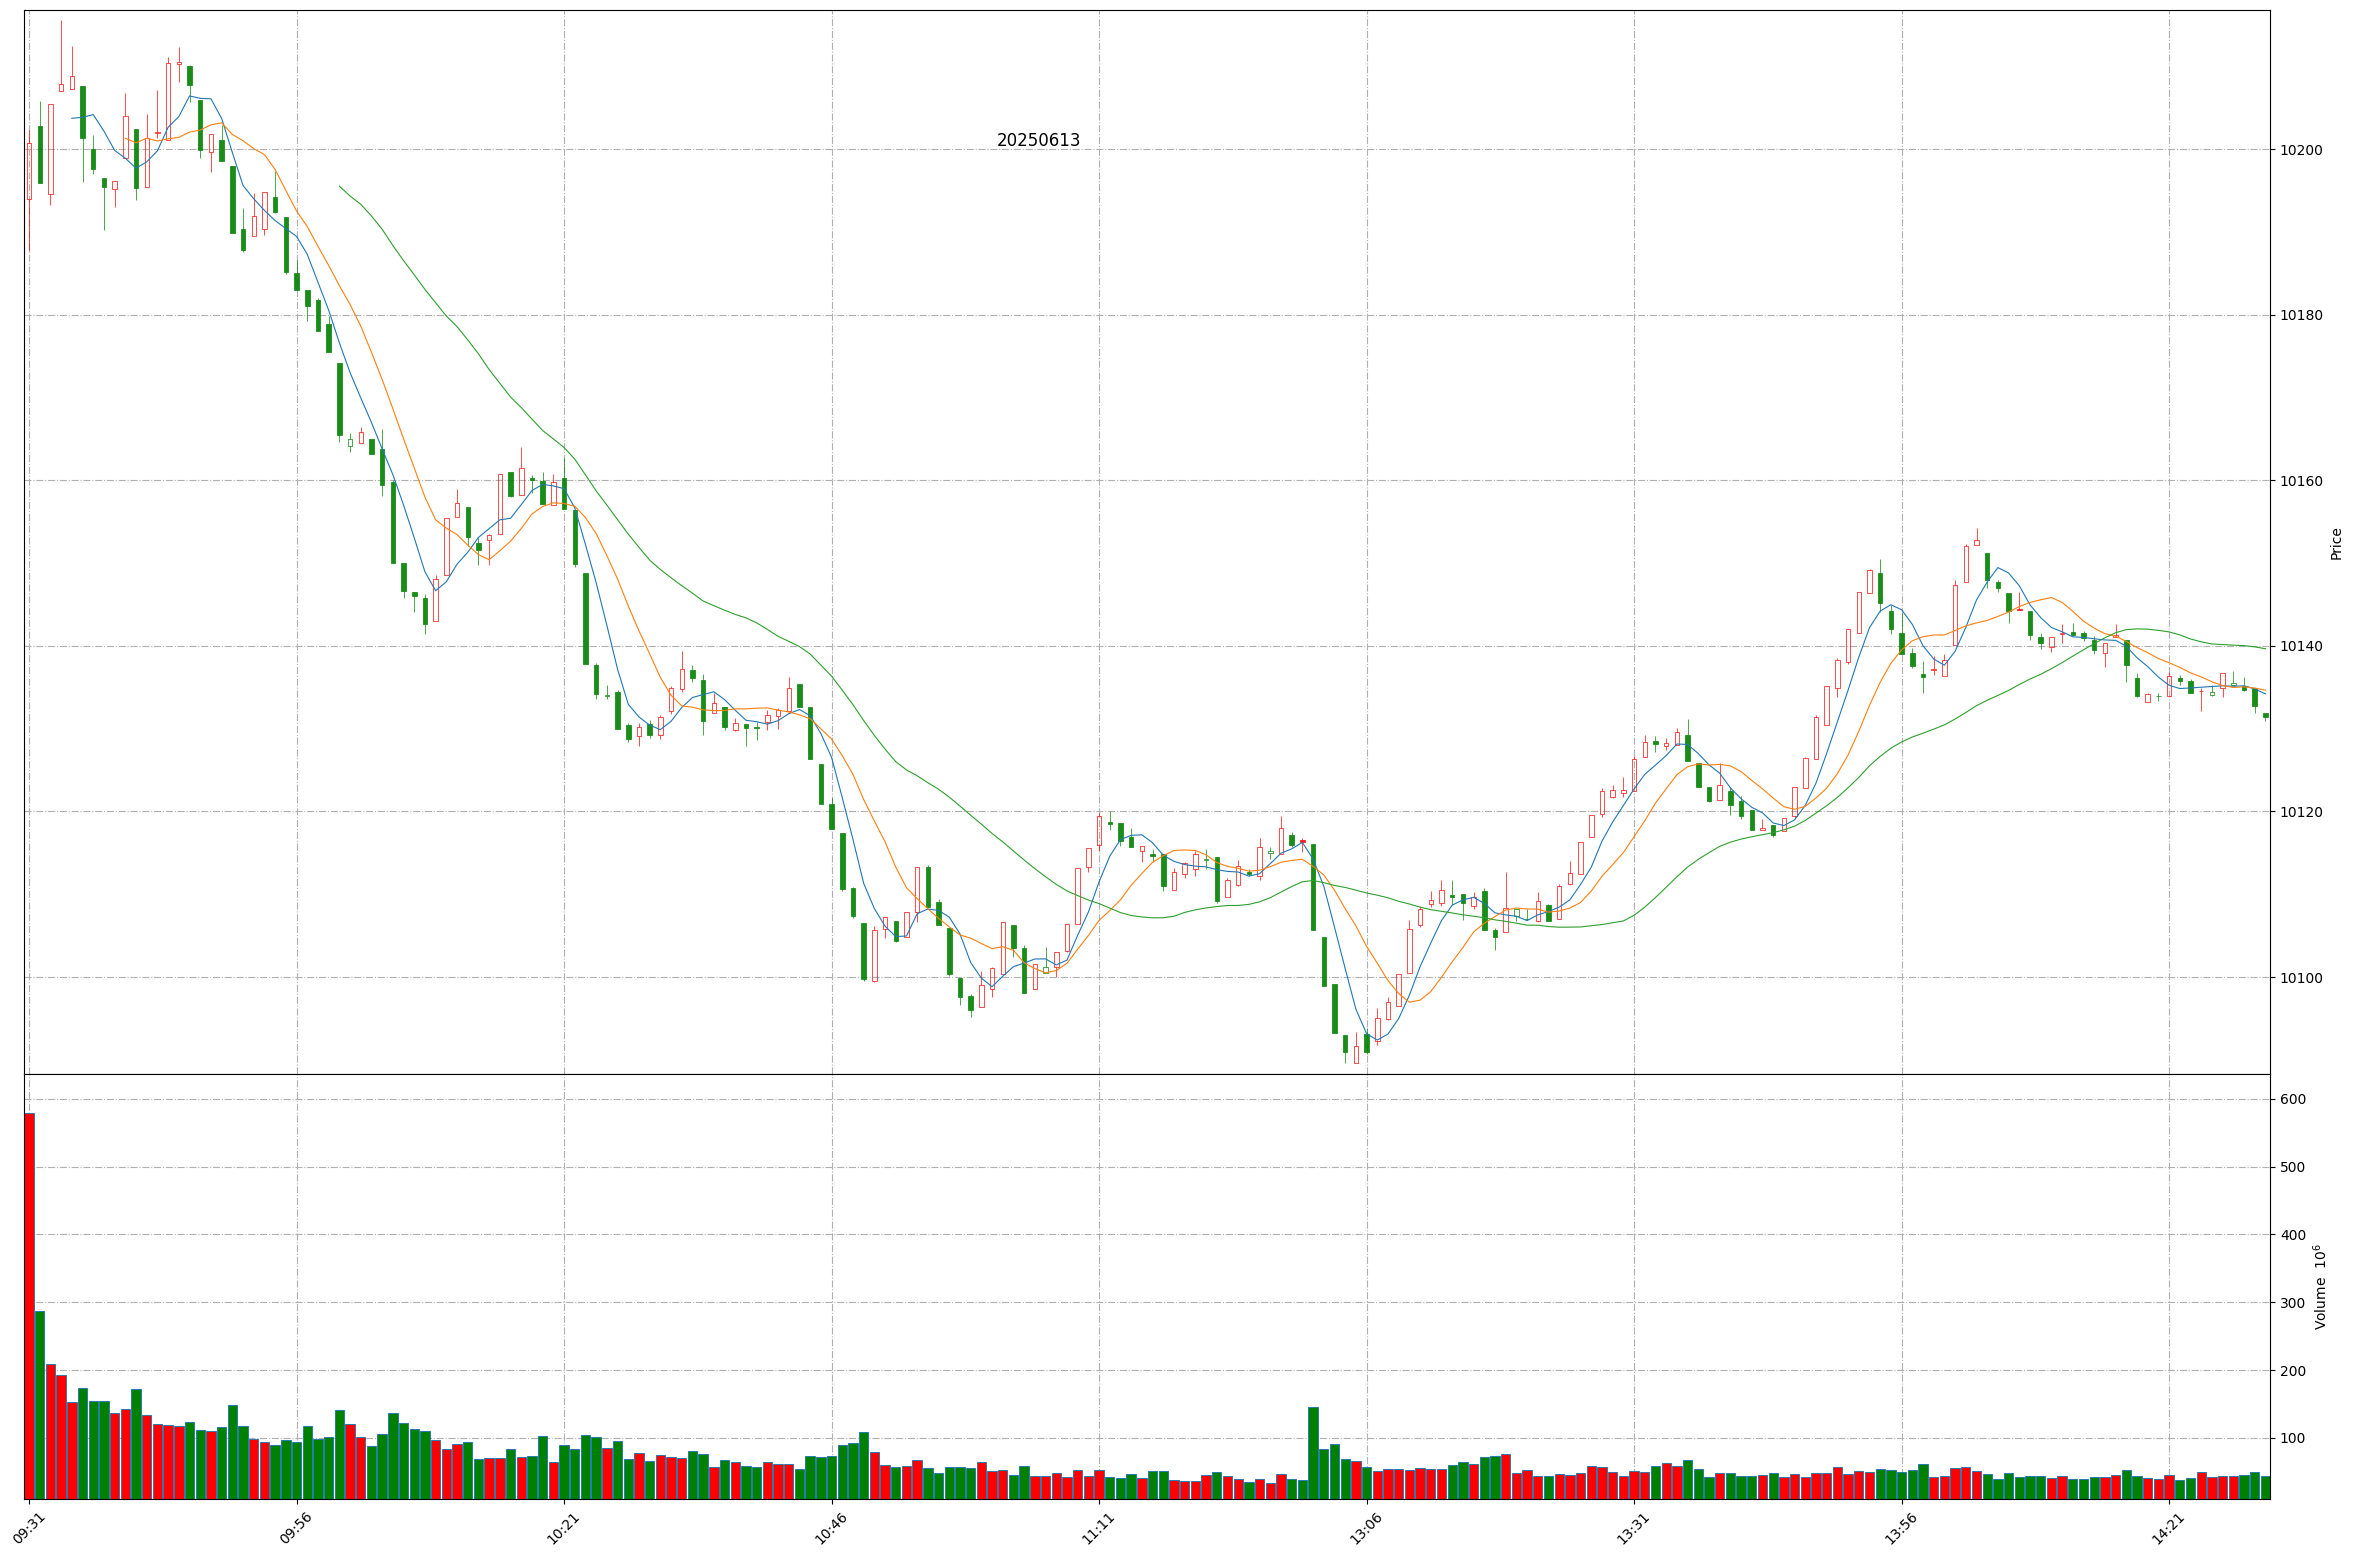
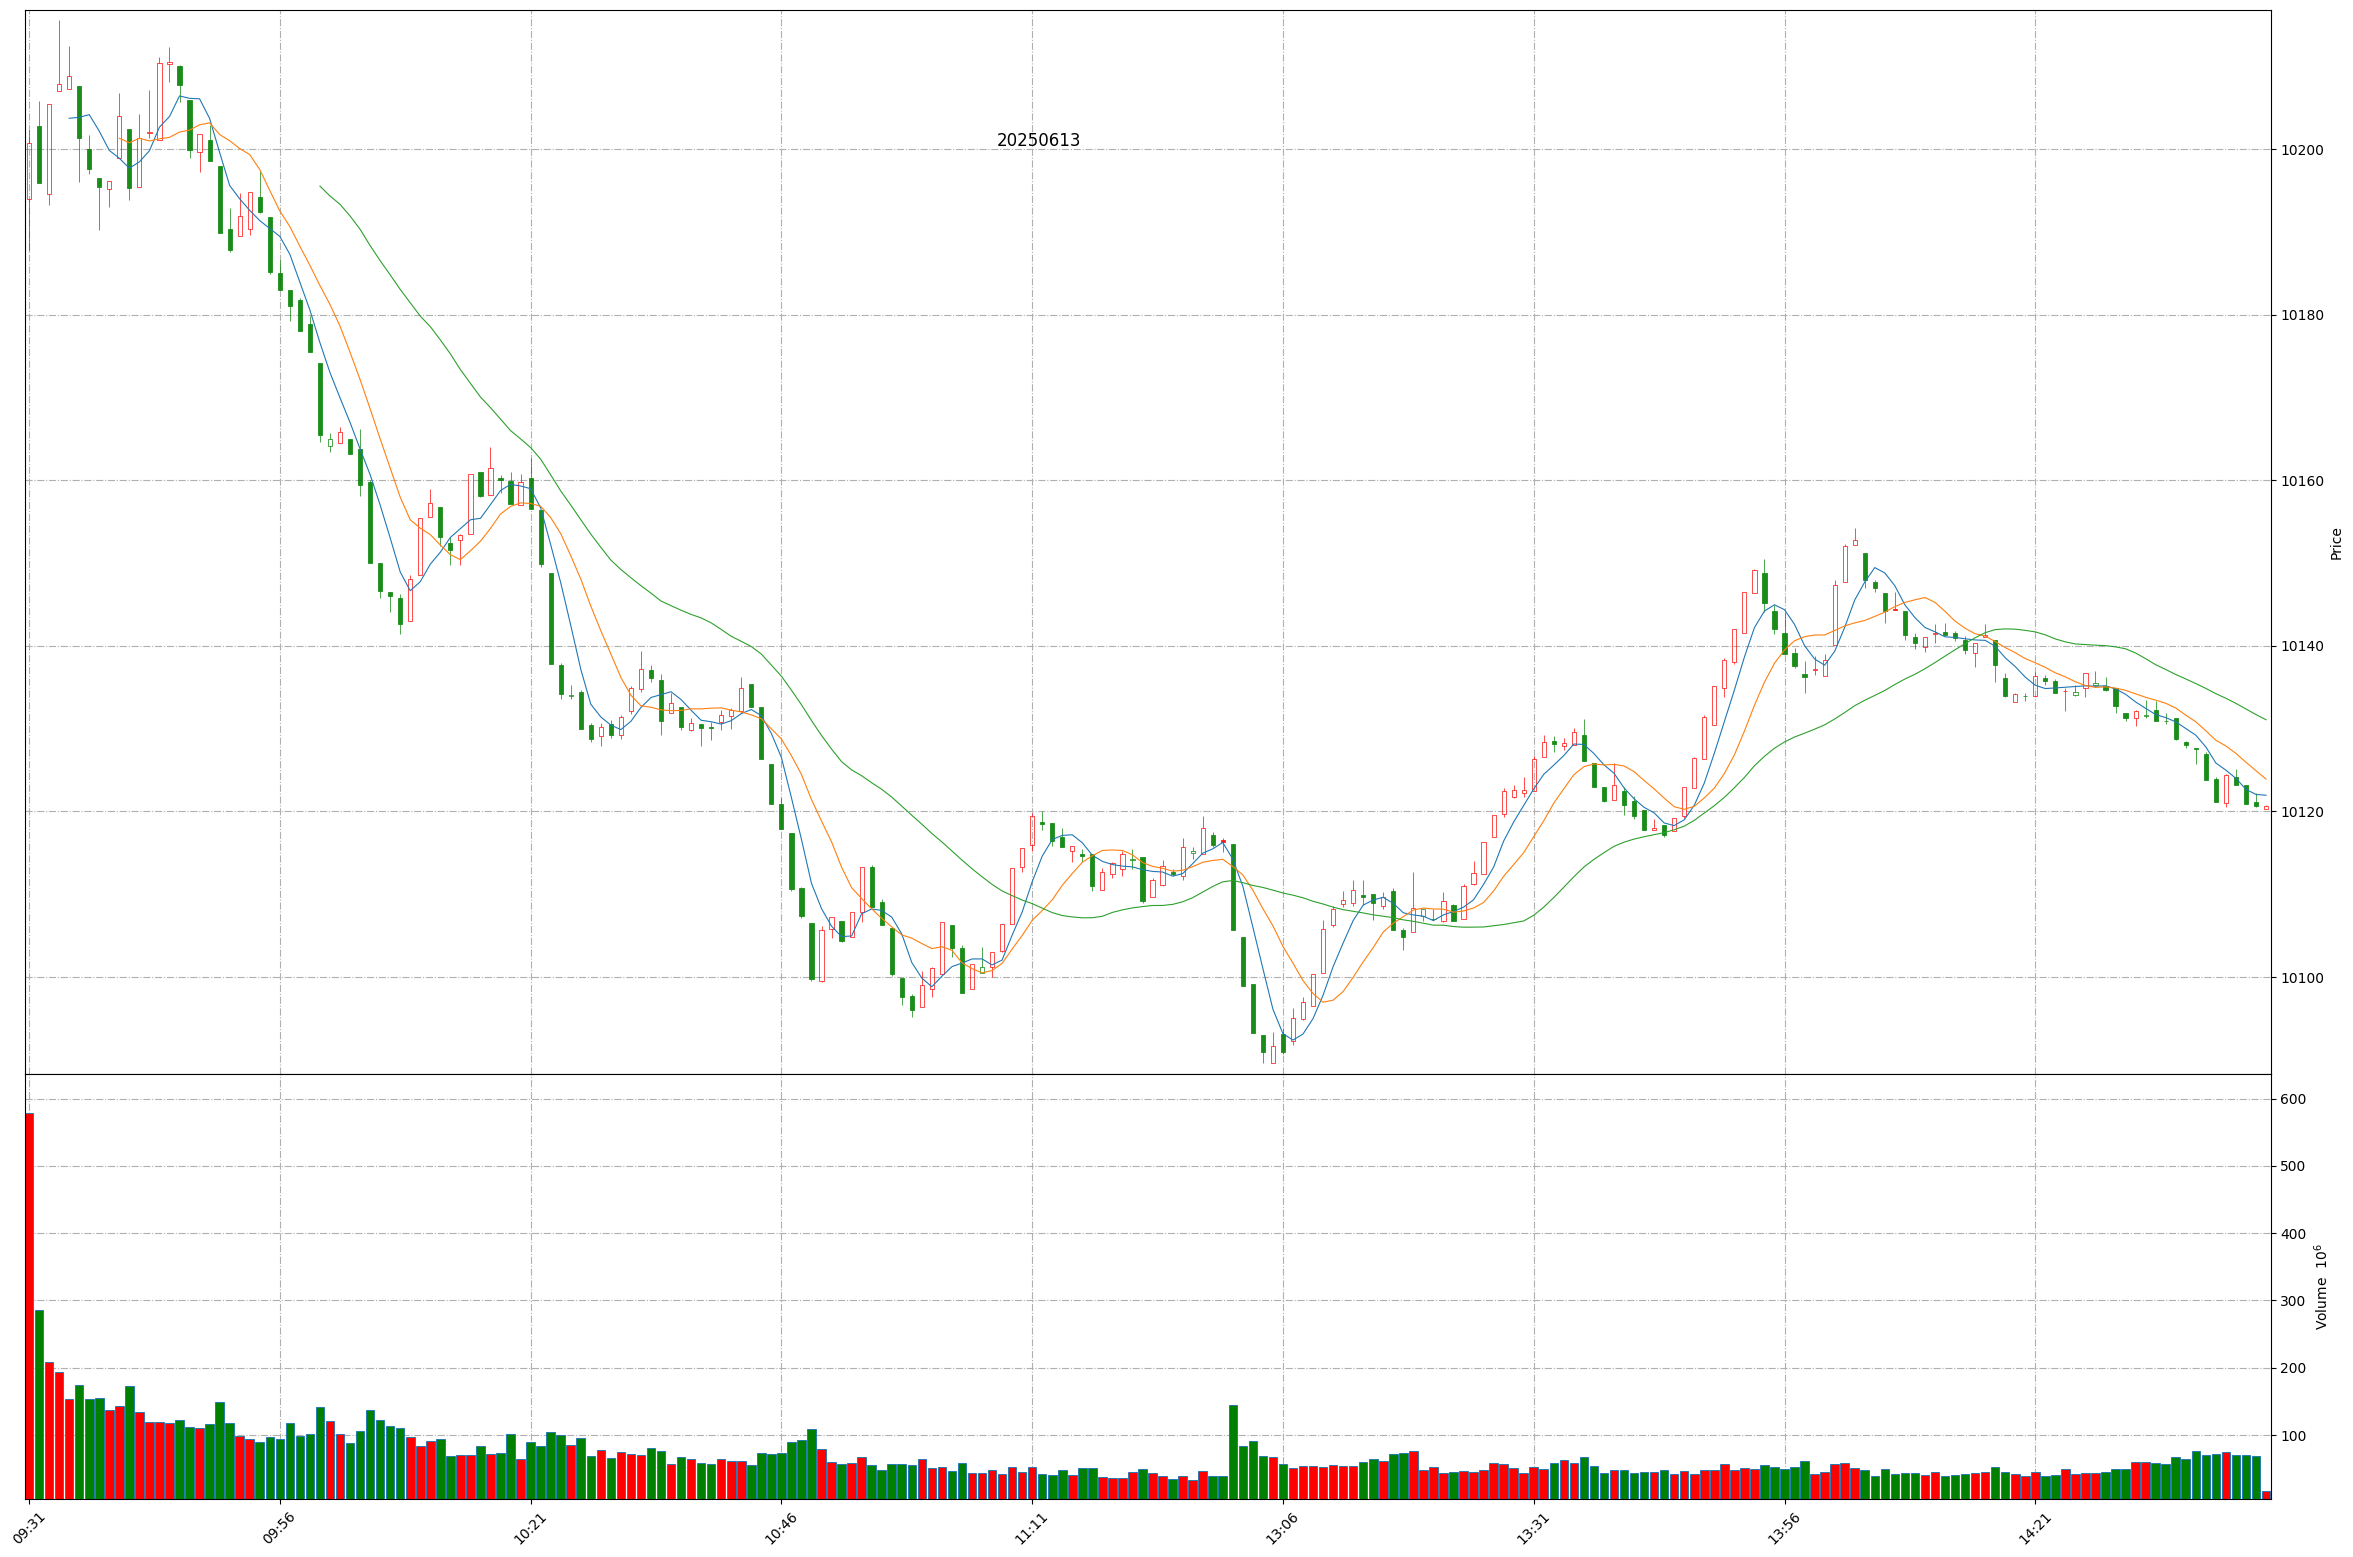
Github action update at 2025-06-13 14:43:20.

diff --git a/README.md b/README.md
@@ -1,11 +1,11 @@
 
 # Daily-A-share-market-quotes 每日 A 股指数（5min 更新）- 20250613
 
-### 上证指数 20250613 14:30
+### 上证指数 20250613 14:43
 ![](./fig/2025/6/20250613-sh000001.png)
 
-### 深证成指 20250613 14:30
+### 深证成指 20250613 14:43
 ![](./fig/2025/6/20250613-sz399001.png)
 
-### 北证50 20250613 14:30
+### 北证50 20250613 14:43
 ![](./fig/2025/6/20250613-bj899050.png)
